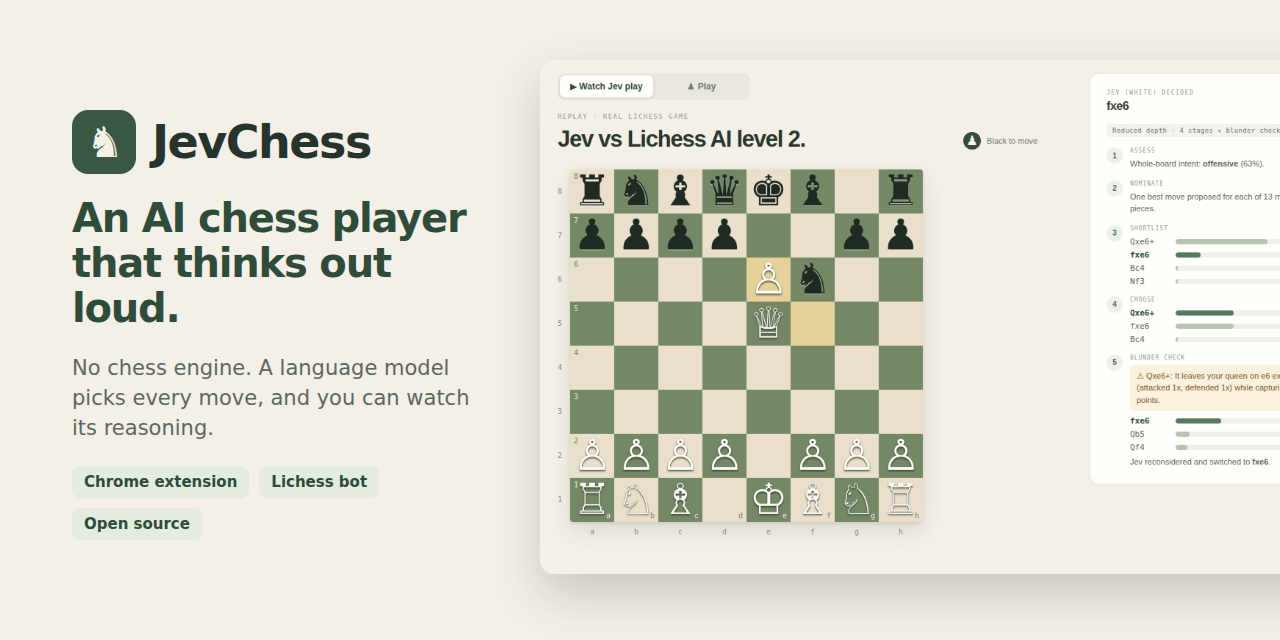
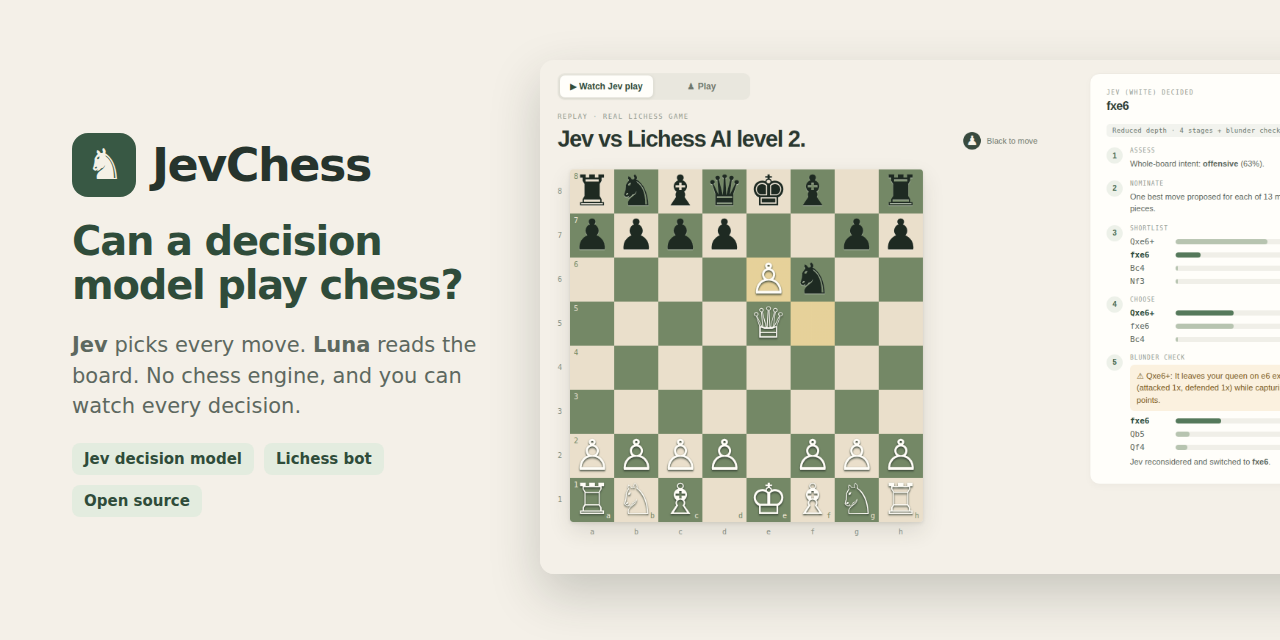
Put the Jev decision model and Luna front and centre
- README opens with the project's real question: can a decision model
  play chess? New 'Meet the models' section: Jev (typesafe/jev-1.13)
  chooses every move, Luna (openai/gpt-6-luna) analyses the board,
  chess.js only supplies rule facts
- Demo banner, page metadata, social card, package.json and
  how-it-works name Jev and Luna explicitly

Changed region(s): [[0.0312, 0.1562, 0.375, 0.8438], [0.2188, 0.6875, 0.2812, 0.7812]]

diff --git a/apps/demo-board/index.html b/apps/demo-board/index.html
@@ -4,30 +4,30 @@
     <meta charset="UTF-8" />
     <meta name="viewport" content="width=device-width, initial-scale=1.0" />
     <meta name="theme-color" content="#f4f0e8" />
-    <title>JevChess: watch an AI play chess without an engine</title>
-    <meta name="description" content="Replay a real Lichess game where the Jev AI checkmates Lichess AI level 2, and see what it was thinking on every move. JevChess is an open-source AI chess player: a Chrome extension and Lichess bot with no chess engine." />
-    <meta name="keywords" content="AI chess, LLM chess, chess bot, Lichess bot, chess Chrome extension, chess AI without engine, open source chess" />
+    <title>JevChess: watch the Jev decision model play chess</title>
+    <meta name="description" content="Can a decision model play chess? Replay a real Lichess game where the Jev decision model checkmates Lichess AI level 2, with Jev's recorded reasoning on every move. Luna reads the board; no chess engine is used. Open-source Chrome extension and Lichess bot." />
+    <meta name="keywords" content="Jev decision model, AI chess, LLM chess, decision model chess, chess bot, Lichess bot, chess Chrome extension, chess AI without engine, open source chess" />
     <link rel="icon" type="image/svg+xml" href="/favicon.svg" />
     <link rel="canonical" href="https://shihabalratul.github.io/Jev-chess/" />
     <meta property="og:type" content="website" />
     <meta property="og:site_name" content="JevChess" />
-    <meta property="og:title" content="JevChess: watch an AI play chess without an engine" />
-    <meta property="og:description" content="A real Lichess game, replayed move by move with the AI's reasoning: intent, shortlist, predicted replies and a blunder check." />
+    <meta property="og:title" content="JevChess: can a decision model play chess?" />
+    <meta property="og:description" content="The Jev decision model plays a real Lichess game, replayed move by move with its recorded reasoning: intent, shortlist, predicted replies and a blunder check." />
     <meta property="og:url" content="https://shihabalratul.github.io/Jev-chess/" />
     <meta property="og:image" content="https://shihabalratul.github.io/Jev-chess/social-preview.png" />
     <meta property="og:image:width" content="1280" />
     <meta property="og:image:height" content="640" />
     <meta property="og:image:alt" content="JevChess: an AI chess player that thinks out loud" />
     <meta name="twitter:card" content="summary_large_image" />
-    <meta name="twitter:title" content="JevChess: watch an AI play chess without an engine" />
-    <meta name="twitter:description" content="A real Lichess game, replayed move by move with the AI's reasoning." />
+    <meta name="twitter:title" content="JevChess: can a decision model play chess?" />
+    <meta name="twitter:description" content="Jev, a decision model, plays real chess. Replay it move by move." />
     <meta name="twitter:image" content="https://shihabalratul.github.io/Jev-chess/social-preview.png" />
     <script type="application/ld+json">
       {
         "@context": "https://schema.org",
         "@type": "SoftwareApplication",
         "name": "JevChess",
-        "description": "Open-source AI chess player: a Chrome extension and Lichess bot where a language model chooses every move without a chess engine.",
+        "description": "Open-source testbed for the Jev decision model playing chess: a Chrome extension and Lichess bot where Jev chooses every move and the Luna vision model reads the board, with no chess engine.",
         "applicationCategory": "GameApplication",
         "operatingSystem": "Chrome, Node.js",
         "url": "https://shihabalratul.github.io/Jev-chess/",

diff --git a/apps/demo-board/src/App.tsx b/apps/demo-board/src/App.tsx
@@ -302,7 +302,7 @@ export default function App() {
 
       {HOSTED && <aside className="hosted-banner" role="note">
         <span className="banner-icon" aria-hidden="true">♞</span>
-        <p><strong>This is the JevChess Board Lab.</strong> The Jev AI plays through the Chrome extension and a backend running on your own computer, so it can't play live on this page.
+        <p><strong>Can a decision model play chess?</strong> In JevChess the <strong>Jev</strong> decision model picks every move and <strong>Luna</strong> reads the board. They run through the Chrome extension and a backend on your own computer, so Jev can't play live on this page.
           Watch a <strong>real recorded Jev game</strong> below, or switch to <em>Play</em> and try the board yourself.</p>
         <a href={`${REPO_URL}#-quick-start`} target="_blank" rel="noreferrer">Run Jev yourself →</a>
       </aside>}

diff --git a/README.md b/README.md
@@ -2,10 +2,11 @@
 
 # ♞ JevChess
 
-### An AI chess player that looks at the board, thinks out loud, and makes its own moves.
+### Can a decision model play chess? JevChess puts **Jev** to the test.
 
-No Stockfish. No opening book. Just a language model reasoning its way through every move,
-with the chess rules engine making sure it never plays an illegal one.
+**Jev** (`typesafe/jev-1.13`) chooses every move. **Luna** (`openai/gpt-6-luna`) reads the board.
+No Stockfish, no opening book: just a decision model answering one question after another,
+with the chess rules engine making sure it never plays an illegal move.
 
 [![Live demo](https://img.shields.io/badge/▶_live_demo-watch_Jev_play-5ad7a8?style=for-the-badge)](https://shihabalratul.github.io/Jev-chess/)
 
@@ -18,7 +19,7 @@ with the chess rules engine making sure it never plays an illegal one.
 
 <img src="docs/images/jev-vs-lichess-ai.gif" alt="Jev playing a real Lichess game against Lichess AI level 2: each move shows its intent, shortlist, examined lines, final probabilities and a blunder check, ending in checkmate" width="100%">
 
-<sub>A real game: Jev (White) vs Lichess AI level 2, 10+5, checkmate on move 21. The panel shows what Jev was thinking on each move.
+<sub>A real game: the Jev decision model (White) vs Lichess AI level 2, 10+5, checkmate on move 21. The panel shows Jev's actual recorded decisions on each move.
 <a href="https://shihabalratul.github.io/Jev-chess/">Step through it yourself</a> · <a href="https://lichess.org/P5cyQ6JG">see it on Lichess</a></sub>
 
 </div>
@@ -27,34 +28,44 @@ with the chess rules engine making sure it never plays an illegal one.
 
 ## What is this?
 
-JevChess is a fun experiment: **how well can an AI play chess if it has to actually think about each move,
-instead of calculating millions of positions like a chess engine?**
+JevChess started with one question: **how well does Jev, a decision model, play chess?**
+
+Jev isn't a chess engine and isn't a chatbot. It's a **decision model**: you give it a situation and a set of
+options, and it picks one, with a probability for every option. JevChess turns chess into exactly that kind
+of problem and watches what Jev does with it.
+
+## 🤖 Meet the models
+
+| | Model | Job |
+|---|---|---|
+| ♞ **Jev** | `typesafe/jev-1.13`, a decision model, via OpenRouter's Decisions API | **Plays the game.** Every move comes from Jev's answers to a short series of multiple-choice questions: *"Attack or defend here?"*, *"What will your opponent reply to each move?"*, *"Which of these finalists is best?"* Jev never sees an engine evaluation or a ranked list of "best moves". |
+| 👁 **Luna** | `openai/gpt-6-luna`, a vision model, via OpenRouter | **Analyses the board.** Luna works out where the pieces are from a screenshot or the page's HTML (including `<canvas>` boards), reads the visible move list, and gets past popups that block the board. It never chooses a move. |
+| 📐 **chess.js** | open-source rules library | **Keeps everyone honest.** Lists the legal moves and plain rule facts (checks, captures, "this leaves your queen hanging"). It ranks nothing. |
+
+Both models are configurable in `.env`, and JevChess never silently swaps them if one fails.
 
 It comes in two flavours:
 
-- 🧩 **A Chrome extension** that finds a chessboard on a web page, works out the position, asks the AI for
-  a move, plays it with the mouse, and then checks that the move really happened.
-- 🤖 **A Lichess bot** that plays real games through Lichess's official Bot API.
-
-Behind both is **Jev**, a decision model that never sees a ranked list of "best moves". Instead it gets asked
-a series of simple questions, like *"Should you attack or defend here?"*, *"What will your opponent reply to
-each move?"* and *"Which of these finalists is best?"*, and builds its decision from its own answers.
+- 🧩 **A Chrome extension:** Luna reads a chessboard on a web page, Jev picks a move, and the extension plays it
+  with the mouse, then checks that the move really happened.
+- 🤖 **A Lichess bot:** plays real games through Lichess's official Bot API. Lichess supplies the position
+  directly, so it's pure Jev, with no vision needed.
 
 ## ✨ What makes it interesting
 
 | | |
 |---|---|
-| 👀 **It reads almost any board** | HTML boards, `<canvas>` boards, flipped boards. If it can't read the page, a vision model looks at a screenshot. |
-| 🧠 **You can see it think** | Every decision is logged: intent, shortlist, predicted replies, probabilities. The [live demo](https://shihabalratul.github.io/Jev-chess/) shows all of it. |
+| 👀 **It reads almost any board** | HTML boards, `<canvas>` boards, flipped boards. When the page alone isn't enough, Luna analyses a screenshot. |
+| 🧠 **You can see Jev think** | Every Jev decision is logged: intent, shortlist, predicted replies, probabilities. The [live demo](https://shihabalratul.github.io/Jev-chess/) shows all of it. |
 | ⏱ **It manages its clock** | On Lichess it thinks harder when it has time (up to 6 stages) and faster when it doesn't. |
-| 🛟 **It checks itself for blunders** | If Jev's pick hangs a piece or allows mate in one, it is asked to reconsider. |
+| 🛟 **Jev checks itself for blunders** | If Jev's pick hangs a piece or allows mate in one, Jev is asked to reconsider, and still makes the final call. |
 | ✅ **It never guesses** | Moves only count once the board is seen to change. If anything looks off, it stops instead of guessing. |
 | 🔒 **Your keys stay home** | API keys live in a small local server and never touch the browser. |
 
-## 🏆 How good is it?
+## 🏆 So, how well does Jev play?
 
-Honestly? **About as good as Lichess's level 2–3 computer.** In its first test series it played six
-casual 10+5 games against Lichess's built-in AI:
+Honestly? **About as well as Lichess's level 2–3 computer.** In the first test series Jev played six
+casual 10+5 games against Lichess's built-in AI, choosing every move itself:
 
 | Opponent | Result |
 |---|---|
@@ -106,15 +117,15 @@ Want it to play on Lichess? See **[Lichess bot setup](docs/lichess-setup.md)**.
 
 ```mermaid
 flowchart LR
-    A[♟ Board on a web page<br/>or a Lichess game] -->|reads the position| B(JevChess)
+    A[♟ Board on a web page<br/>or a Lichess game] -->|Luna reads the board| B(JevChess)
     B -->|legal moves + facts<br/>from chess.js| C[(Jev<br/>asks itself<br/>up to 6 questions)]
     C -->|picks a move| B
     B -->|plays it, then checks<br/>the board changed| A
 ```
 
-1. **See:** read the pieces from the page (or the Lichess game stream).
-2. **Know the rules:** [chess.js](https://github.com/jhlywa/chess.js) works out every legal move, plus facts like "this leaves your queen hanging".
-3. **Think:** Jev answers its staged questions and picks a move. It can only pick legal ones.
+1. **See (Luna):** Luna analyses the board on the page, or the Lichess game stream supplies it directly.
+2. **Know the rules (chess.js):** [chess.js](https://github.com/jhlywa/chess.js) works out every legal move, plus facts like "this leaves your queen hanging".
+3. **Decide (Jev):** Jev answers its staged questions and picks a move. It can only pick legal ones.
 4. **Act and verify:** play the move, look again, and only trust it once the board agrees.
 
 The detailed version is in **[How it works](docs/how-it-works.md)**.
@@ -138,8 +149,9 @@ Your account, your call. Just don't say I didn't warn you. ♟⚰
 <details>
 <summary><b>Does it use Stockfish or another chess engine?</b></summary>
 
-No. chess.js only supplies rules facts (which moves are legal, what a move captures, whether it allows mate in one).
-Every choice is Jev's. That's the whole point of the experiment.
+No. chess.js only supplies rules facts (which moves are legal, what a move captures, whether it allows mate in one),
+and Luna only reads the board. Every choice is Jev's. That's the whole point of the experiment: testing how a
+decision model plays chess.
 </details>
 
 <details>
@@ -167,8 +179,9 @@ extension, a web page or the logs. See [SECURITY.md](SECURITY.md).
 <details>
 <summary><b>Can I use a different AI model?</b></summary>
 
-The models are configurable in `.env` (`VISION_MODEL`, `JEV_MODEL`). JevChess will never silently swap
-to a different model if yours fails. It reports the error instead.
+Yes. `JEV_MODEL` (default `typesafe/jev-1.13`) chooses the moves and `VISION_MODEL` (default
+`openai/gpt-6-luna`) reads the board. JevChess will never silently swap to a different model if yours fails.
+It reports the error instead.
 </details>
 
 ## 📚 Documentation

diff --git a/docs/how-it-works.md b/docs/how-it-works.md
@@ -2,9 +2,9 @@
 
 JevChess splits chess into three jobs that are easy to get wrong when mixed together:
 
-1. **Seeing**: what pieces are where? *(DOM parsing or a vision model)*
+1. **Seeing**: what pieces are where? *(DOM parsing, or **Luna** (`openai/gpt-6-luna`), the vision model)*
 2. **Knowing the rules**: what moves are legal, whose turn, castling rights? *([chess.js](https://github.com/jhlywa/chess.js), never an AI guess)*
-3. **Choosing**: which legal move to play? *(the Jev decision model)*
+3. **Choosing**: which legal move to play? *(**Jev** (`typesafe/jev-1.13`), the decision model. Testing how Jev plays chess is the point of the project)*
 
 Then it acts, and **checks that the board really changed** before trusting the move.
 
@@ -46,8 +46,8 @@ Reading pieces tries, in order:
 
 1. **Cached declarative rules** learned for this page (selectors and attribute maps only, never generated code);
 2. **Generic DOM/geometry heuristics**;
-3. **Vision model on a reduced, sanitized DOM**;
-4. **Vision model on a cropped screenshot** (this is how `<canvas>` boards work);
+3. **Luna on a reduced, sanitized DOM**;
+4. **Luna on a cropped screenshot** (this is how `<canvas>` boards work);
 5. **Hybrid** combinations.
 
 Results are cached by fingerprint, so an unchanged board doesn't trigger new model calls.
